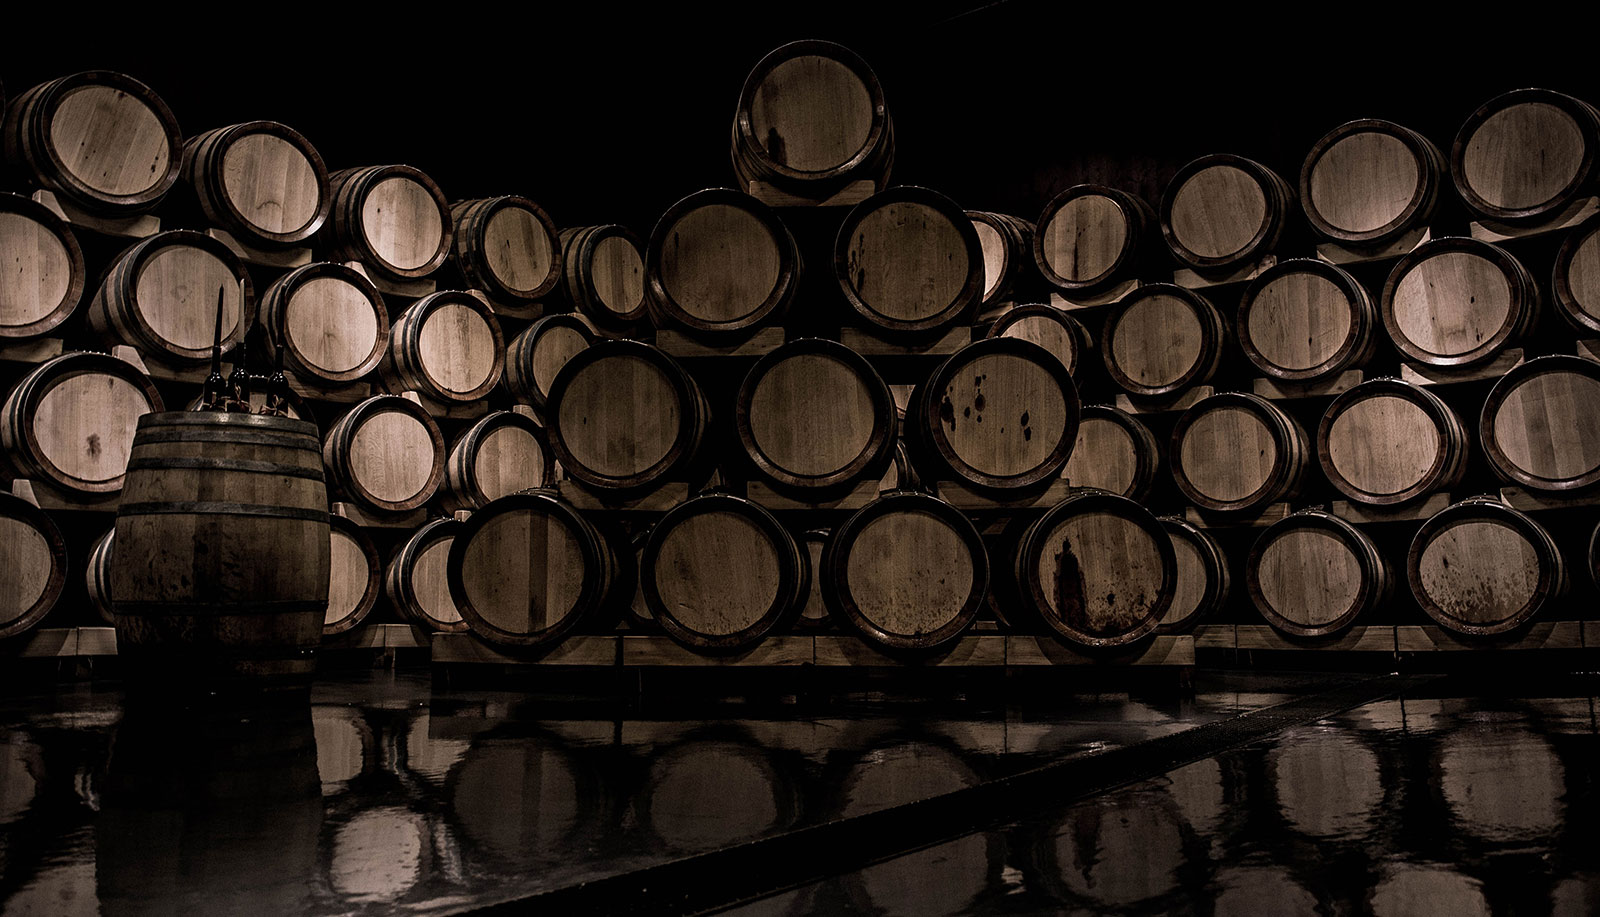
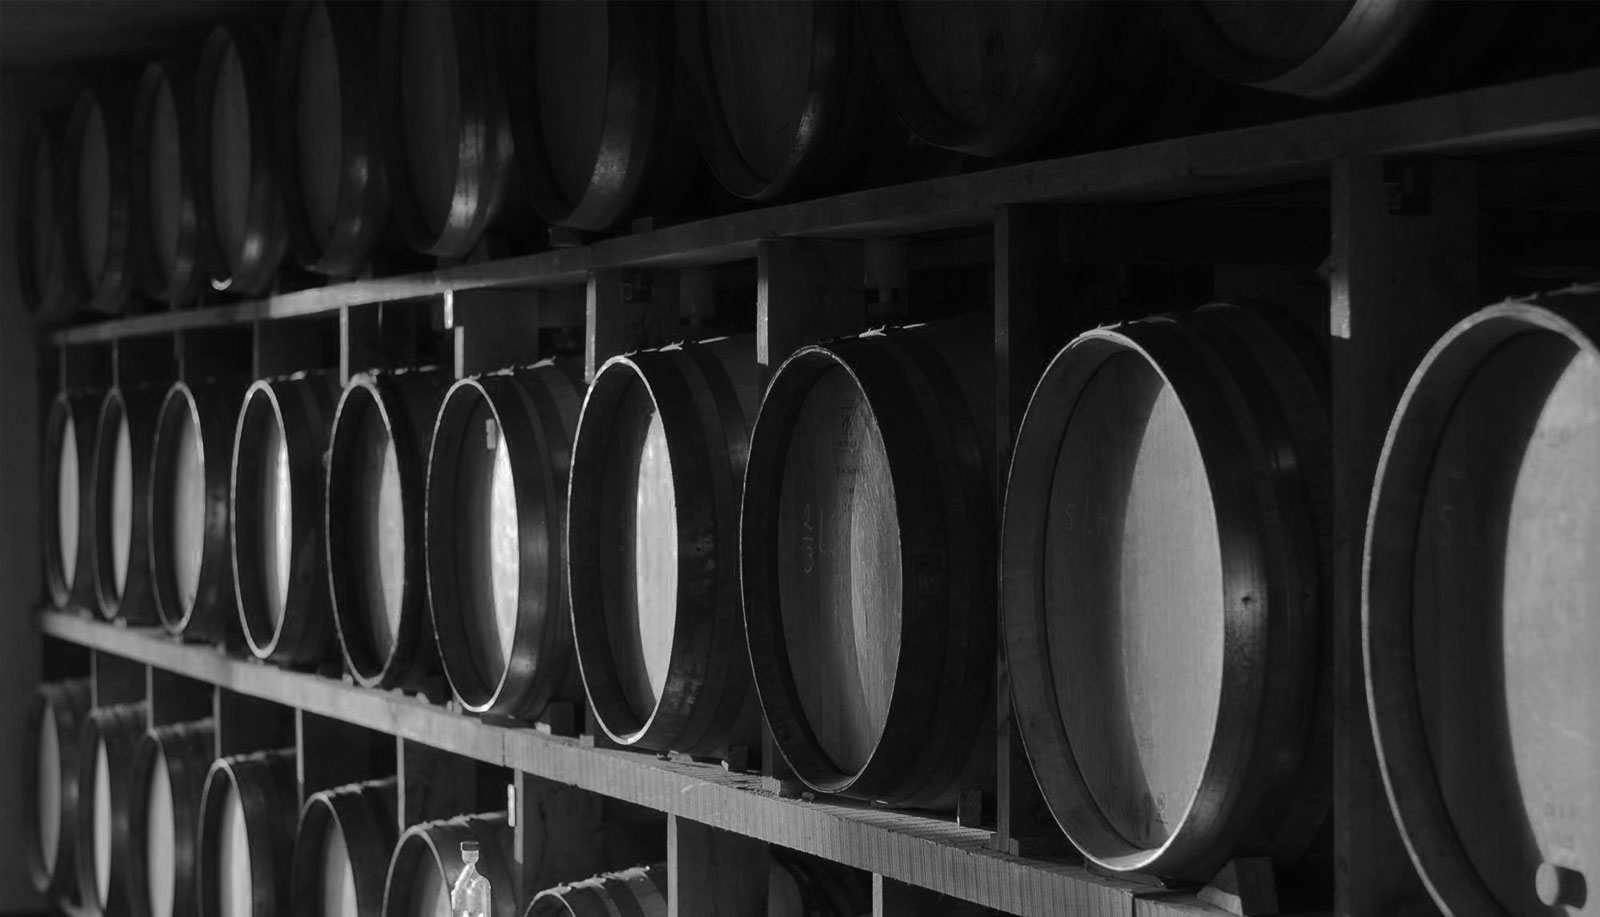
Add participants (#56)
* Add a participant

* Add banner image

* Add another participant

diff --git a/source/assets/stylesheets/components/_flex-wrapper.scss b/source/assets/stylesheets/components/_flex-wrapper.scss
@@ -1,0 +1,49 @@
+.flex-wrapper {
+  text-align: center;
+
+  @include grid-media($for-desktop-up) {
+    text-align: left;
+  }
+
+  .flex-item {
+    padding: 2em 1em;
+
+    @include grid-media($for-desktop-up) {
+      display: flex;
+    }
+  }
+
+  .item-image {
+    border: 1px solid $black;
+    border-radius: 50%;
+    height: 280px;
+    margin: 0 auto 1em;
+    overflow: hidden;
+    width: 280px;
+
+    @include grid-media($for-desktop-up) {
+      flex: 0 0 160px;
+      height: 160px;
+      margin-right: 1em;
+      width: 160px;
+    }
+
+    &.border-light-gray {
+      border-color: $lighter-gray;
+    }
+
+    &.border-white {
+      border-color: $white;
+    }
+
+    img {
+      width: 100%;
+    }
+  }
+
+  .item-text {
+    h3 {
+      font-size: $base-font-size * 2;
+    }
+  }
+}

diff --git a/source/assets/stylesheets/pages/_participants.scss b/source/assets/stylesheets/pages/_participants.scss
@@ -1,6 +1,6 @@
 body.deelnemers {
   header.banner {
-    $banner-image: "../images/banner-fog.jpg";
+    $banner-image: "../images/banner-barrels.jpg";
     background-image: url($banner-image);
   }
 }

diff --git a/source/assets/stylesheets/main.css.scss b/source/assets/stylesheets/main.css.scss
@@ -13,6 +13,7 @@
 
 @import "components/banner";
 @import "components/buttons";
+@import "components/flex-wrapper";
 @import "components/forms";
 @import "components/icons";
 @import "components/lists";

diff --git a/source/assets/stylesheets/components/_banner.scss b/source/assets/stylesheets/components/_banner.scss
@@ -78,6 +78,7 @@ header {
 
     h1 {
       font-size: $base-font-size * 2;
+      position: relative;
 
       span {
         display: block;

diff --git a/source/assets/stylesheets/base/_grid.scss b/source/assets/stylesheets/base/_grid.scss
@@ -8,3 +8,7 @@ $for-desktop-up: (
   max-width: 960px;
   padding: 2em $base-spacing;
 }
+
+.single-column .grid-row {
+  max-width: 800px;
+}
